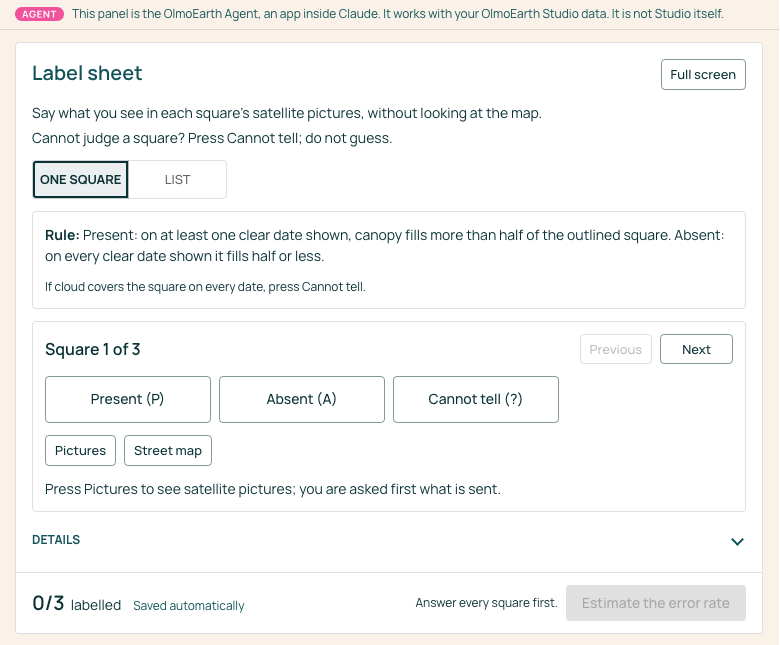
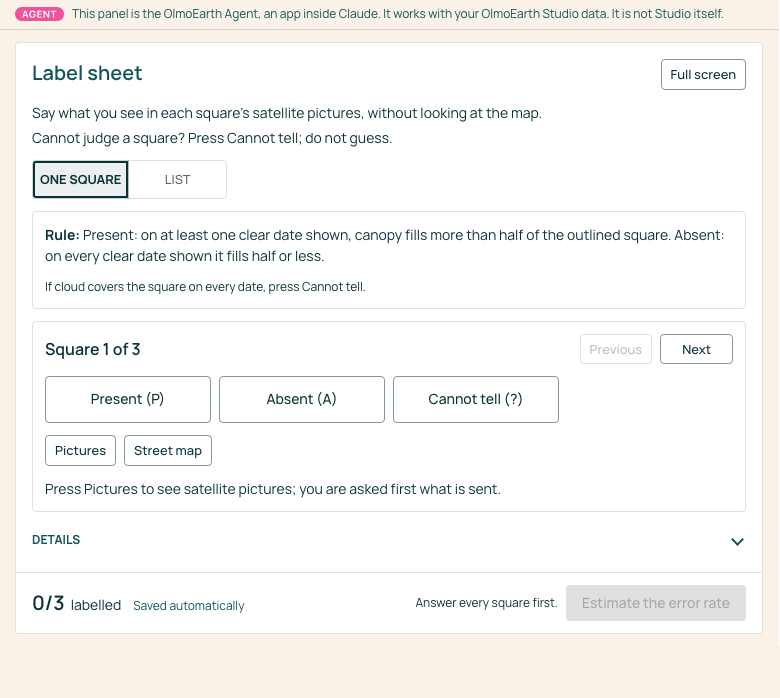
README: Agent app first, MCP App second; the MCP App screenshots line up
The two intro lines and the two parts now come in the order Agent app, MCP App.
In the MCP App's screenshot grid each cell is top-aligned, and the start card
and label sheet screenshots are padded at the bottom with the panel's colour to
their row's height, so a shorter picture no longer floats in the middle.

diff --git a/README.md b/README.md
@@ -10,20 +10,58 @@ Drives [OlmoEarth Studio](https://allenai.org/blog/olmoearth) from a request in 
 gets back with the statistics of [olmoearth-inferencex](https://github.com/2imi9/olmoearth_inferenceX). Two ways to
 use it:
 
-- **[MCP App](#mcp-app)**: in Claude Desktop, with panels beside the chat. Claude answers.
 - **[Agent app](#agent-app)**: the project's own agent, in a web page or a terminal. A local LLM answers, or a cloud
   LLM on your own API key.
+- **[MCP App](#mcp-app)**: in Claude Desktop, with panels beside the chat. Claude answers.
+
+## Agent app
+
+<div align="center">
+
+[![The web UI answering which windows to check first, then how wrong the map is; click for the MP4](webui/demo/olmoearth-agent-demo.webp)](webui/demo/olmoearth-agent-demo.mp4)
+
+<sub>Demo mode (35 s), replaying what `make verify-demo` recorded on a Dynamic World tile, with each check's figure; no
+real Studio key and no LLM. Click for the MP4.</sub>
+
+</div>
+
+The project's own agent finds a model in Studio, runs and compares predictions, and
+[checks a map](docs/Usage.md#what-it-checks). It checks each answer against the tool results before showing it.
+
+Needs [uv](https://docs.astral.sh/uv/) and an OlmoEarth Studio API key (Studio, your profile, **API Keys**). The local
+LLM (llama.cpp) also needs Docker and an NVIDIA GPU; a cloud API key (Claude, ChatGPT or Gemini) needs neither.
+
+```bash
+git clone https://github.com/2imi9/OlmoEarth-Agent.git && cd OlmoEarth-Agent
+make setup      # uv sync --all-extras
+```
+
+- On a cloud API key: `make bridge` serves the live web UI on http://localhost:8088. In the status chip's menu (foot
+  of the sidebar), pick the provider under **Agent settings -> Model backend** and paste its key.
+- On the local LLM: `make up` starts it (the first run downloads the model), then the same web UI.
+
+Open the page, paste your Studio key and ask in plain words. Both keys stay in your browser and go with each request;
+the server does not store them.
+
+From the terminal, on the local LLM:
+
+```bash
+export OLMOEARTH_API_KEY=...
+make serve && make agent Q="How many OlmoEarth Studio projects do I have?"
+```
+
+`make help` lists the targets; without `make`, see the [quick start](docs/Usage.md#quick-start).
 
 ## MCP App
 
 <table>
 <tr>
-<td width="50%"><img src="docs/images/mcp-app/start.png" alt="Start card: the OlmoEarth overview figure and the three jobs"></td>
-<td width="50%"><img src="docs/images/mcp-app/check.png" alt="Check card: the four steps as panels, the labelling rule, and how many squares to check in each part"></td>
+<td width="50%" valign="top"><img src="docs/images/mcp-app/start.png" alt="Start card: the OlmoEarth overview figure and the three jobs"></td>
+<td width="50%" valign="top"><img src="docs/images/mcp-app/check.png" alt="Check card: the four steps as panels, the labelling rule, and how many squares to check in each part"></td>
 </tr>
 <tr>
-<td><img src="docs/images/mcp-app/sheet.png" alt="Label sheet: one square at a time, its answers and Cannot tell"></td>
-<td><img src="docs/images/mcp-app/result.png" alt="Result card: the error rate with its 95% range, and the squares checked, counted by kind"></td>
+<td valign="top"><img src="docs/images/mcp-app/sheet.png" alt="Label sheet: one square at a time, its answers and Cannot tell"></td>
+<td valign="top"><img src="docs/images/mcp-app/result.png" alt="Result card: the error rate with its 95% range, and the squares checked, counted by kind"></td>
 </tr>
 </table>
 
@@ -67,44 +105,6 @@ Studio API key; it never passes through Claude. No Studio account yet? **Request
 
 Setup, limits and troubleshooting: [docs/mcp-app-setup.md](docs/mcp-app-setup.md). Every panel and what its words
 mean: [docs/Usage.md](docs/Usage.md#in-claude-with-views-mcp-app).
-
-## Agent app
-
-<div align="center">
-
-[![The web UI answering which windows to check first, then how wrong the map is; click for the MP4](webui/demo/olmoearth-agent-demo.webp)](webui/demo/olmoearth-agent-demo.mp4)
-
-<sub>Demo mode (35 s), replaying what `make verify-demo` recorded on a Dynamic World tile, with each check's figure; no
-real Studio key and no LLM. Click for the MP4.</sub>
-
-</div>
-
-The project's own agent finds a model in Studio, runs and compares predictions, and
-[checks a map](docs/Usage.md#what-it-checks). It checks each answer against the tool results before showing it.
-
-Needs [uv](https://docs.astral.sh/uv/) and an OlmoEarth Studio API key (Studio, your profile, **API Keys**). The local
-LLM (llama.cpp) also needs Docker and an NVIDIA GPU; a cloud API key (Claude, ChatGPT or Gemini) needs neither.
-
-```bash
-git clone https://github.com/2imi9/OlmoEarth-Agent.git && cd OlmoEarth-Agent
-make setup      # uv sync --all-extras
-```
-
-- On a cloud API key: `make bridge` serves the live web UI on http://localhost:8088. In the status chip's menu (foot
-  of the sidebar), pick the provider under **Agent settings -> Model backend** and paste its key.
-- On the local LLM: `make up` starts it (the first run downloads the model), then the same web UI.
-
-Open the page, paste your Studio key and ask in plain words. Both keys stay in your browser and go with each request;
-the server does not store them.
-
-From the terminal, on the local LLM:
-
-```bash
-export OLMOEARTH_API_KEY=...
-make serve && make agent Q="How many OlmoEarth Studio projects do I have?"
-```
-
-`make help` lists the targets; without `make`, see the [quick start](docs/Usage.md#quick-start).
 
 ## More
 
